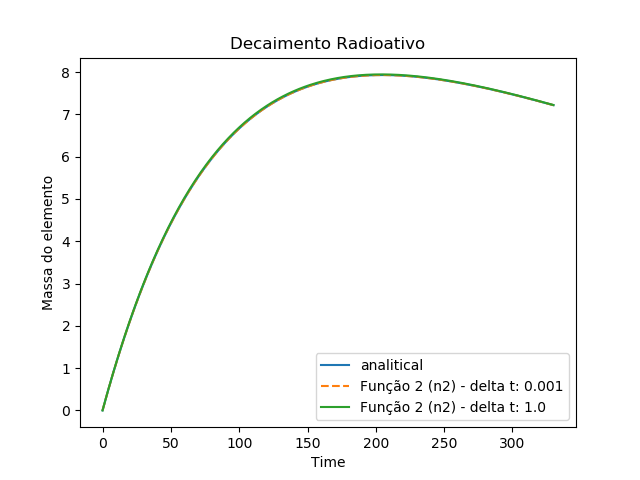
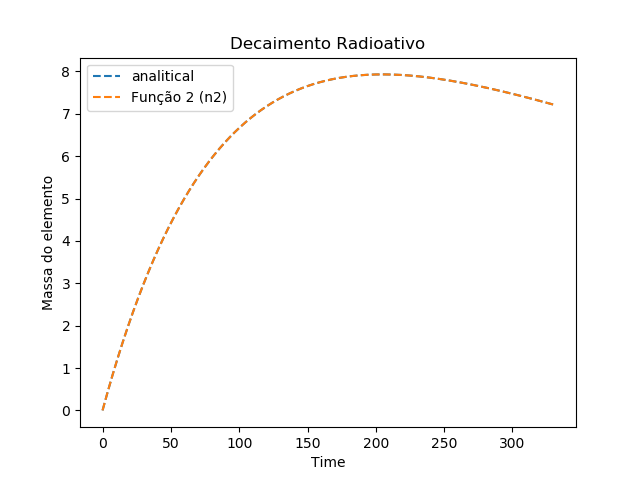
fix: tipe line in grafics

diff --git a/app.py b/app.py
@@ -78,7 +78,7 @@ plt.savefig("decaimento-radioativo-10n2.png", dpi=100)
 plt.show()
 
 
-plt.plot(steps, analytical, "--")
+plt.plot(steps, analytical)
 plt.plot(steps, euler['two'], "--")
 plt.title('Decaimento Radioativo')
 plt.xlabel('Time')
@@ -94,7 +94,7 @@ euler_2 = euler_method(f0_one, f0_two, delta_t_2,
                        steps_2, f_line_one, f_line_two)
 
 
-plt.plot(steps, analytical, "--")
+plt.plot(steps, analytical)
 plt.plot(steps, euler['two'], "--")
 plt.plot(steps_2, euler_2['two'])
 plt.title('Decaimento Radioativo')
